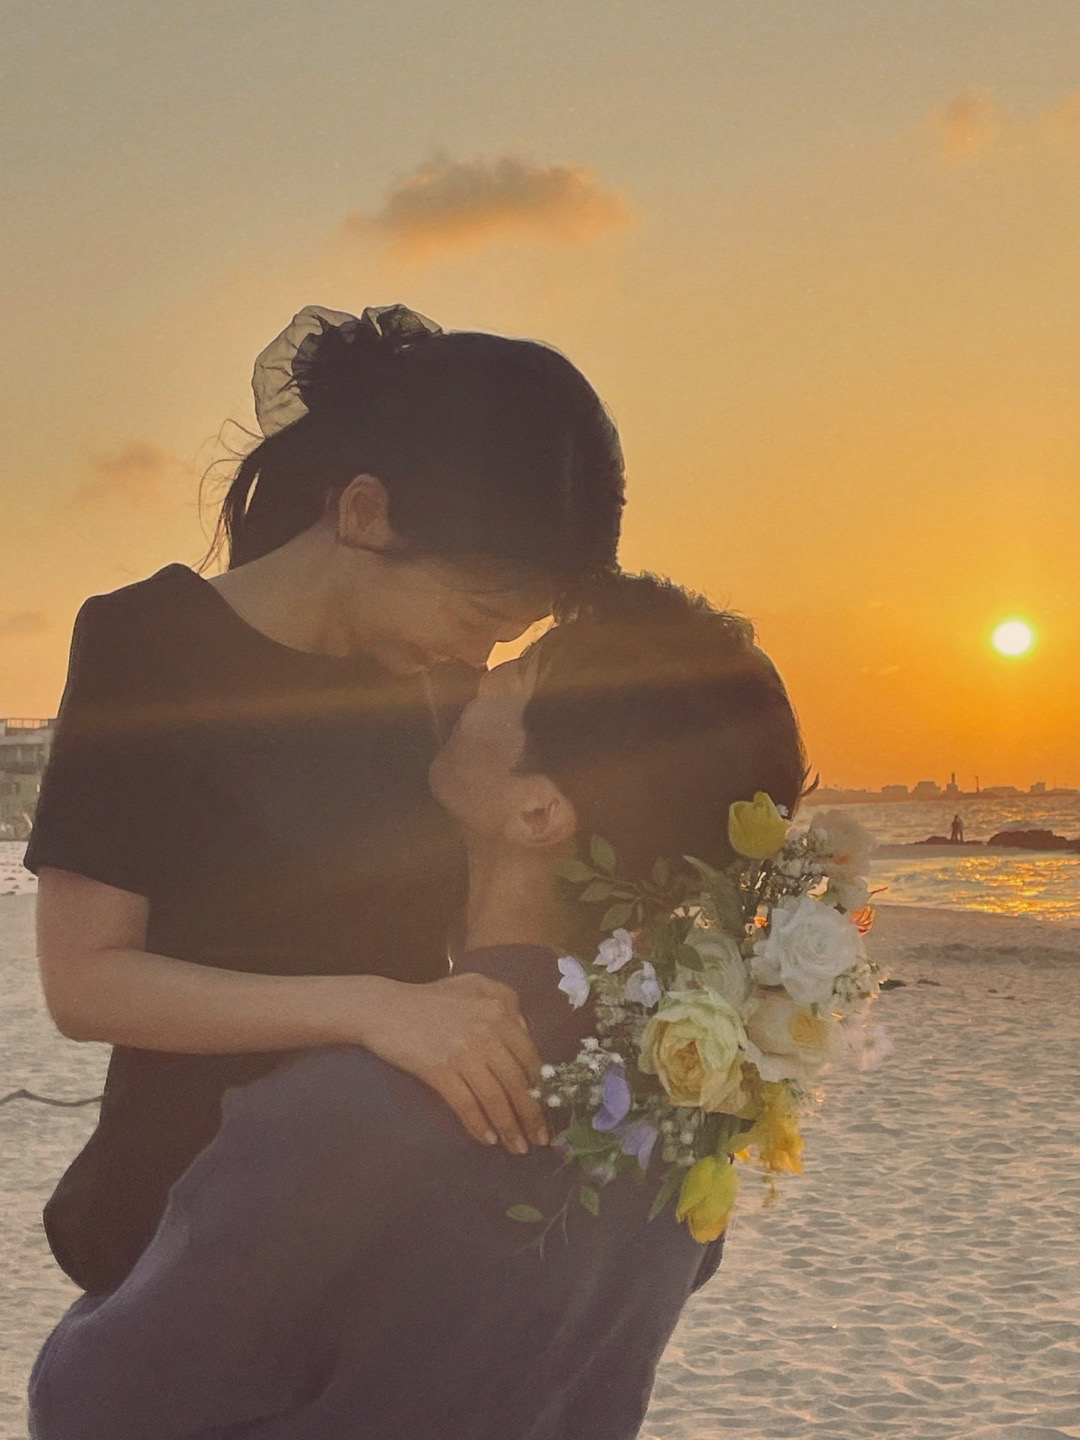
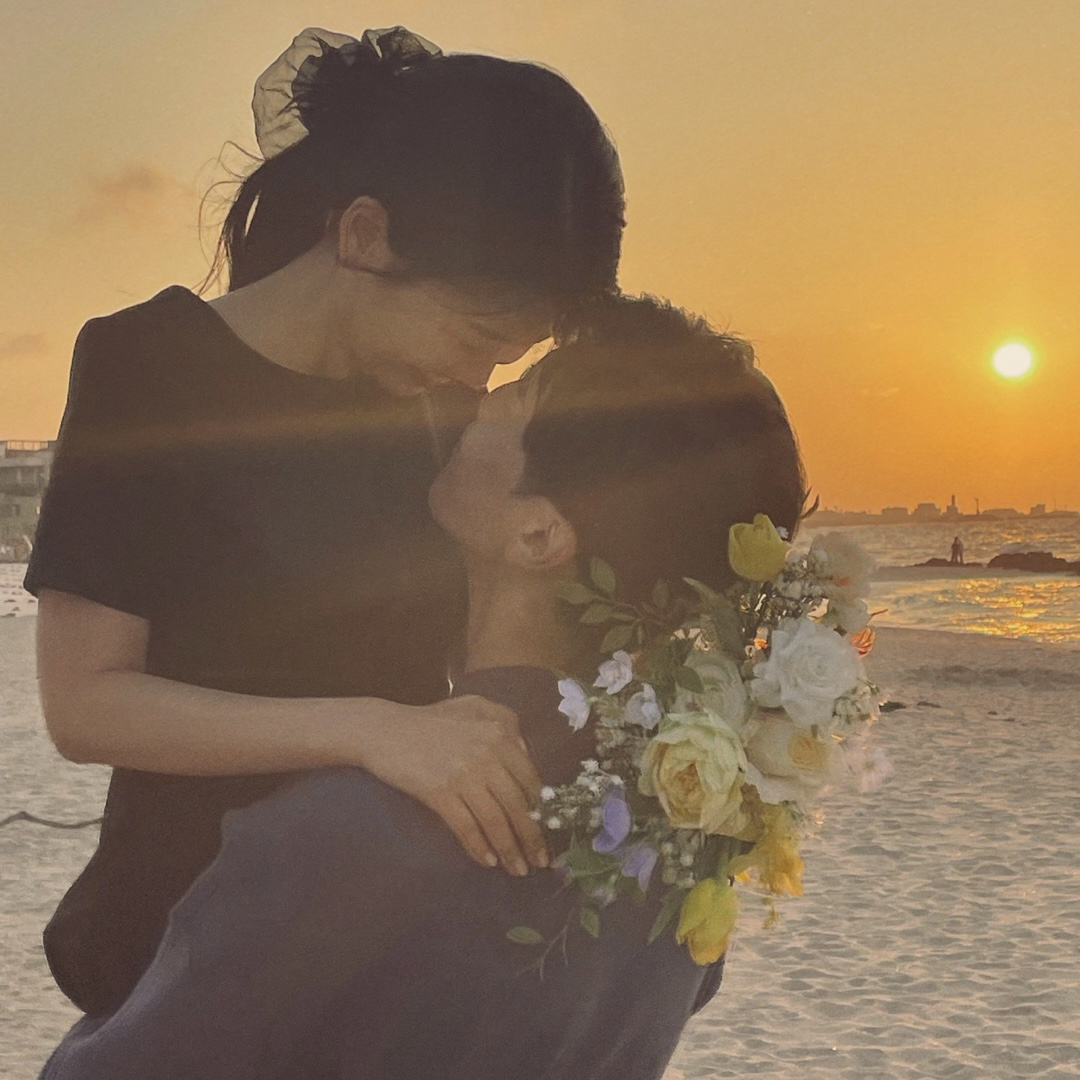
Fix image

diff --git a/index.html b/index.html
@@ -11,8 +11,8 @@
     <meta property="og:description" content="2023년 2월 25일 저희 결혼합니다!!" />
     <meta property="og:image" content="https://raw.githubusercontent.com/Huijae-Sangyeon/wedding-invitation/main/img/og_img.jpeg" />
     <meta property="og:image:type" content="image/jpeg" />
-    <meta property="og:image:width" content="400" />
-    <meta property="og:image:height" content="300" />
+    <meta property="og:image:width" content="800" />
+    <meta property="og:image:height" content="800" />
     <link rel="stylesheet" href="style.css" />
     <link
       rel="stylesheet"
